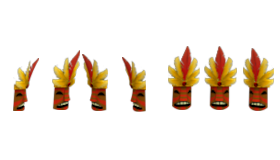
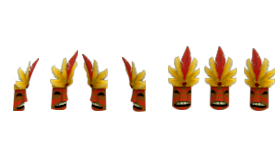
Blue mask alignment: settle at (24, -32), playtest-confirmed
Two rounds of live tuning from the original (20, -11): the mask sat too low
(and, once raised, slightly too far left). (24, -32) looks correct in-game.
The x could only go to ~24 before the crop pulls in the neighbouring frame's
art (source frames are 40px apart; the bleed guard stops it). Blue sheet
(m1.png) only; no exe change.

Changed region(s): [[0.8571, 0.2812, 1.0, 0.6875], [0.1714, 0.3125, 0.2857, 0.6875]]

diff --git a/scripts/build_vv1_heathen_mask_sheets.py b/scripts/build_vv1_heathen_mask_sheets.py
@@ -71,7 +71,7 @@ COLOURS = ["blue", "orange", "red", "purple", "chief"]
 PACKED = "packed-atlas"
 
 MASK_OFFSETS = {
-    "blue": (20, -20),  # nudged up 9px: user reported blue sat too low in-game
+    "blue": (24, -32),  # playtest-confirmed alignment (was (20,-11), sat too low+left)
     "orange": (18, -12),
     "red": (18, -29),
     "purple": (4, -13),
